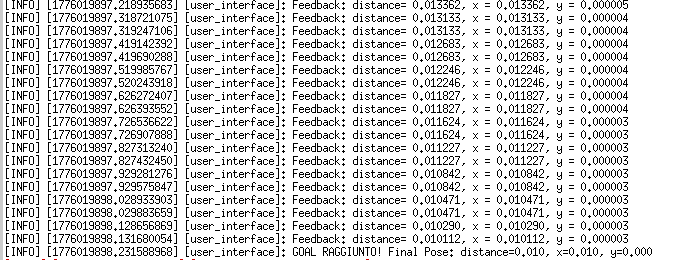
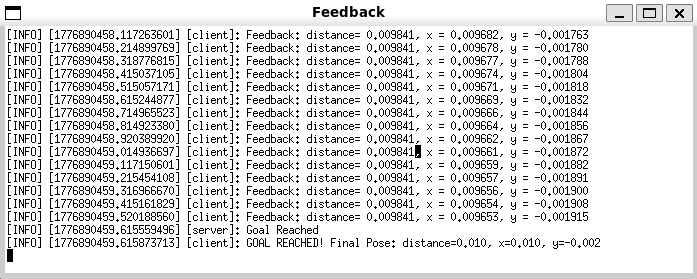
readme modified

diff --git a/README.md b/README.md
@@ -36,7 +36,7 @@ robot_controller/
     └── manual_composition.cpp
 ```
 **The header files** - `include/robot_controller/` <br>
-`action_client.hpp` and `action_server.hpp` to declare the two classes `RobotActionClient` and `RobotActionServer` with all class name, methods and members. This separation allows manual_composition.cpp to instantiate both nodes knowing only their interface, without including the full implementation. <br>
+`action_client.hpp` and `action_server.hpp` declare the two classes `RobotActionClient` and `RobotActionServer` with all class name, methods and members. This separation allows manual_composition.cpp to instantiate both nodes knowing only their interface, without including the full implementation. <br>
 
 **Source Files** - `src/`
   - **1) `action_client.cpp` - `RobotActionClient`**<br>
@@ -46,11 +46,8 @@ robot_controller/
     - sends the goal asynchronously
     - `goal_response_callback` — logs whether the goal was accepted or rejected by the server;
     - `feedback_callback` — logs the current relative position and distance received during navigation;
-    - `result_callback` — handles the final result <br>
-<div align="center">
-  <img src="/image_readme/feedback.png" alt="Feedback" width="500"/>
-</div>
-      <br>
+    - `result_callback` — handles the final result and updates the internal `goal_state_` string (`"SUCCEEDED"`, `"CANCELLED"`, `"ABORTED"`), which is polled by `manual_composition`;<br>
+    - exposes `get_goal_state()`, `reset_goal_state()` and `cancel_current_goal()` to allow `manual_composition` to read the goal outcome and request cancellation directly.<br>
       
   - **2) `action_server.cpp` - `RobotActionServer`**<br>
     It is the node that implements the full navigation logic of the robot. This node:
@@ -65,12 +62,13 @@ robot_controller/
       - stops the robot when distance < 0.01 m;
       - checks for cancellation at every iteration, stopping the robot cleanly if requested.
       <br>
-  - **3) `manual_composition.cpp` — Standalone**<br>
-    This is the entry point of the `manual_composition` executable: instead of relying on ROS 2's dynamic composition system (which loads plugins via `component_container` at runtime), here the composition happens manually and statically in code.
-    - Instantiates both nodes and adds them to the same executor — both RobotActionClient and RobotActionServer live in the same process under a SingleThreadedExecutor, exactly as they would inside a `component_container`
-    - Collects user input before spinning
-    - once `spin()` is called, the odometry callbacks update the TF tree, the server navigates toward the goal, and the client receives feedback and the final result.
-      <br>
+  - **3) `manual_composition.cpp` — User Interface**<br>
+    This is the entry point of the `manual_composition` executable. It provides an interactive loop that allows the user to send multiple goals sequentially and cancel them at any time:
+    - asks the user for x, y, theta target values;
+    - calls `talker->send_goal(x, y, th)` directly (no intermediate topics);
+    - spawns a background thread that monitors stdin via `select()`: if the user types 'c' + ENTER, it sets a `cancel_requested` flag and `talker->cancel_current_goal()` is called from the main loop;
+    - a pipe is used to unblock the background thread when the goal terminates naturally (without cancellation), avoiding it from remaining stuck on `select()`;
+    - polls `talker->get_goal_state()` inside the main loop, exiting when the state becomes `"SUCCEEDED"`, `"ABORTED"` or `"CANCELLED"`;<br>
    
 **Launch File** - `launch/controller.launch.py`<br>
 Everything is started by a single launch file that brings up three elements simultaneously:<br>
@@ -80,14 +78,19 @@ Everything is started by a single launch file that brings up three elements simu
 - providing the URDF robot description and sensors
 - publishing odometry on `/odom`
 
-**2) Component Container $\rightarrow$** both `RobotActionClient` and `RobotActionServer` are compiled as shared libraries and loaded as `ComposableNode` plugins into the same `component_container`, sharing the same process. The frame names (`world_frame_name`, `moved_frame_name`, `target_frame_name`) are passed as parameters to both nodes.
+**2) Component Container $\rightarrow$** both `RobotActionClient` and `RobotActionServer` are compiled as shared libraries and loaded as `ComposableNode` plugins into the same `component_container`, sharing the same process. The frame names (`world_frame_name`, `moved_frame_name`, `target_frame_name`) are passed as parameters to both nodes. The components, client + server, run in a separate xterm terminal (the "Feedback" window). This separates user interaction from logs and feedback.
 
-**3) User Interface $\rightarrow$** manual_composition is launched as a standalone node, opened in a dedicated terminal window where the user can type the target x, y, theta values interactively.<br>
+<div align="center">
+  <img src="/image_readme/feedback.png" alt="Feedback" width="500"/>
+</div>
+<br>
+
+**3) User Interface $\rightarrow$** manual_composition is launched as a standalone node in a dedicated xterm terminal (the "UI" window), where the user can type the target x, y, theta values interactively.<br>
 
 <div align="center">
   <img src="/image_readme/user_input.png" alt="User Input" width="500"/>
 </div>
-
+<br>
 
 <br>🔴**TF2 FRAME STRUCTURE**<br>
 The navigation relies on three TF frames:
@@ -117,7 +120,8 @@ ros2 launch robot_controller controller.launch.py
 This command will open:
 - the **Gazebo** simulation environment with the robot
 - the **RViz** visualizer showing the TF frames and the robot
-- an **xterm** terminal window where the user can insert the target pose (x, y, theta)
+- an **xterm "UI"** terminal window where the user can insert the target pose (x, y, theta) and cancel goals
+- an **xterm "Feedback"** terminal window showing navigation logs and action feedback
 
 Before inserting the target goal in the user interface window, it is suggested on RVIZ window:
 - display $\rightarrow$ add $\rightarrow$ TF $\rightarrow$ ok
